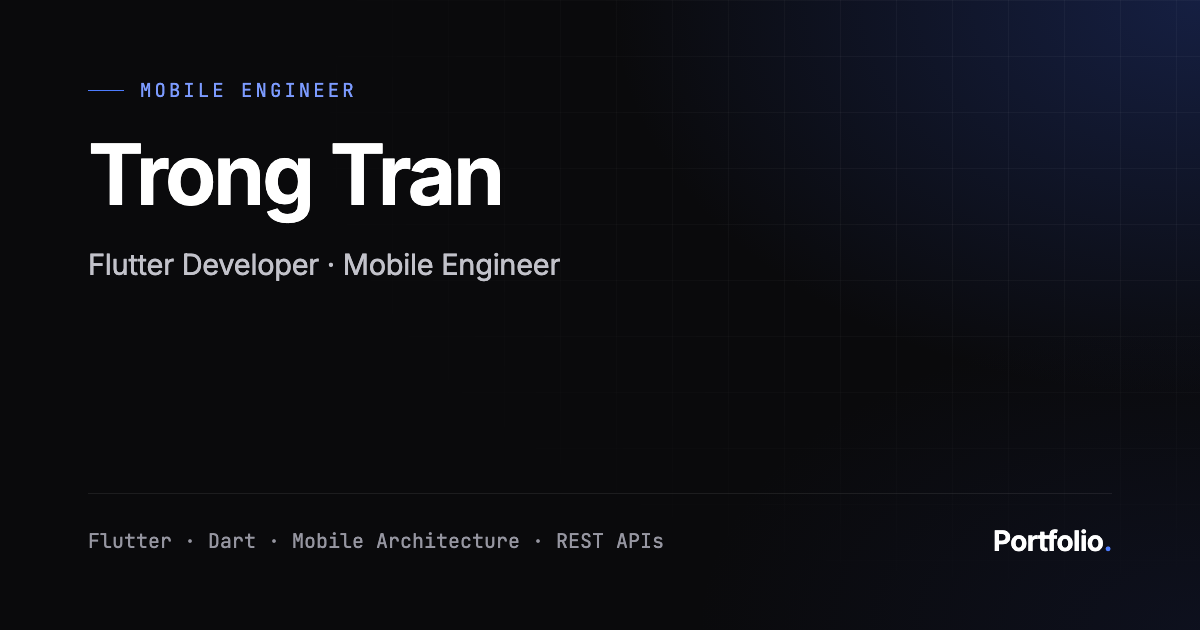
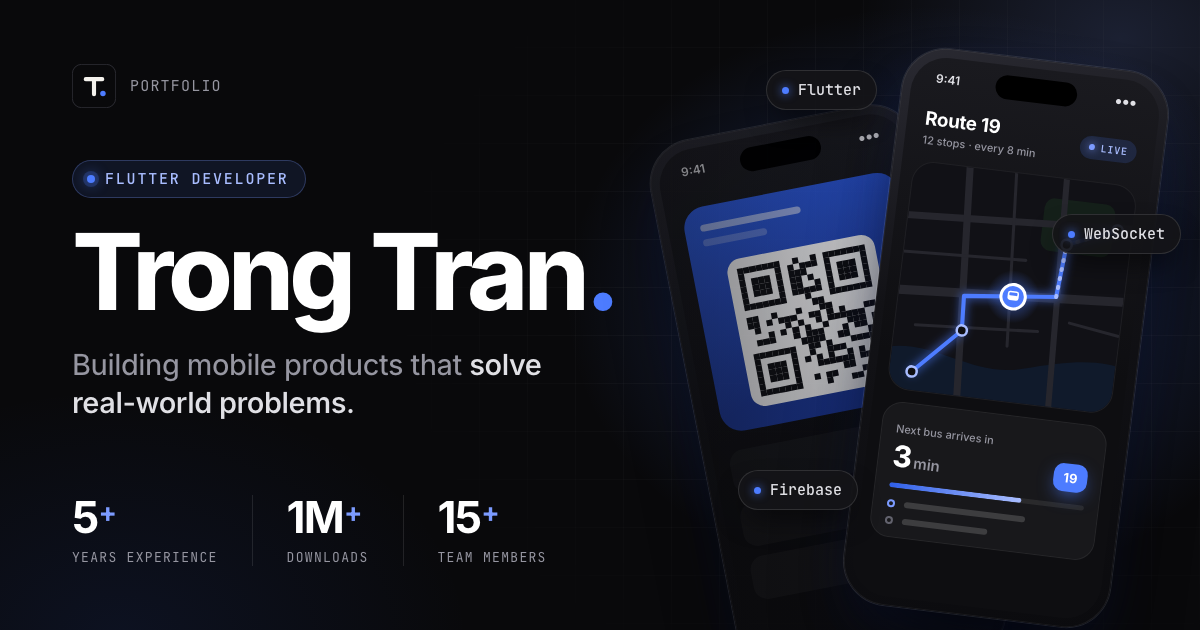
Redesign Open Graph image and add render script
New layout adds phone mockups, key stats and site branding. The image
is now built from scripts/og-image.html via `npm run og:image`.

diff --git a/scripts/og-image.html b/scripts/og-image.html
@@ -1,0 +1,274 @@
+<!doctype html>
+<!--
+  Source for public/og-image.png (1200×630). Render with:
+    npm run og:image
+  Uses the site's fonts (from node_modules) and Tailwind palette.
+-->
+<html lang="en">
+<head>
+<meta charset="UTF-8" />
+<style>
+  @font-face {
+    font-family: 'Inter';
+    src: url('../node_modules/@fontsource-variable/inter/files/inter-latin-wght-normal.woff2') format('woff2');
+    font-weight: 100 900;
+  }
+  @font-face {
+    font-family: 'JetBrains Mono';
+    src: url('../node_modules/@fontsource-variable/jetbrains-mono/files/jetbrains-mono-latin-wght-normal.woff2') format('woff2');
+    font-weight: 100 800;
+  }
+
+  :root {
+    --ink-950: #09090b; --ink-900: #0e0e11; --ink-850: #131317; --ink-800: #1a1a1f;
+    --ink-700: #26262d; --ink-600: #3a3a43; --ink-500: #62626d; --ink-400: #9696a1;
+    --ink-300: #c2c2ca; --ink-200: #e0e0e5; --paper: #f4f2ed;
+    --accent-300: #a9bdff; --accent-400: #7c9bff; --accent-500: #4d7cff; --accent-600: #2f5fe8;
+  }
+
+  * { box-sizing: border-box; margin: 0; padding: 0; }
+  html, body { width: 1200px; height: 630px; overflow: hidden; background: var(--ink-950); }
+  body { font-family: 'Inter', sans-serif; color: #fff; -webkit-font-smoothing: antialiased; }
+
+  .canvas { position: relative; width: 1200px; height: 630px; overflow: hidden; }
+
+  /* Background: glow + fading grid */
+  .glow {
+    position: absolute; inset: 0;
+    background:
+      radial-gradient(520px 420px at 930px 300px, rgb(77 124 255 / 0.30), transparent 70%),
+      radial-gradient(380px 300px at 1120px 40px, rgb(124 155 255 / 0.16), transparent 70%),
+      radial-gradient(500px 360px at 120px 640px, rgb(47 95 232 / 0.10), transparent 70%);
+  }
+  .grid {
+    position: absolute; inset: 0;
+    background-image:
+      linear-gradient(rgb(255 255 255 / 0.045) 1px, transparent 1px),
+      linear-gradient(90deg, rgb(255 255 255 / 0.045) 1px, transparent 1px);
+    background-size: 48px 48px;
+    background-position: -1px -1px;
+    -webkit-mask-image: radial-gradient(640px 520px at 900px 300px, #000 20%, transparent 80%);
+  }
+
+  /* Left column */
+  .left { position: absolute; left: 72px; top: 64px; bottom: 64px; width: 600px; display: flex; flex-direction: column; }
+  .brand { display: flex; align-items: center; gap: 14px; }
+  .brand svg { width: 44px; height: 44px; }
+  .brand span { font-family: 'JetBrains Mono', monospace; font-size: 15px; letter-spacing: 0.08em; color: var(--ink-400); }
+
+  .eyebrow {
+    margin-top: 52px; align-self: flex-start;
+    display: inline-flex; align-items: center; gap: 10px;
+    padding: 8px 16px 8px 14px; border-radius: 999px;
+    border: 1px solid rgb(124 155 255 / 0.28); background: rgb(77 124 255 / 0.10);
+    font-family: 'JetBrains Mono', monospace; font-size: 15px; font-weight: 500;
+    letter-spacing: 0.12em; text-transform: uppercase; color: var(--accent-300);
+  }
+  .eyebrow i { width: 8px; height: 8px; border-radius: 50%; background: var(--accent-500); box-shadow: 0 0 0 4px rgb(77 124 255 / 0.22), 0 0 14px var(--accent-500); }
+
+  h1 { margin-top: 22px; font-size: 106px; font-weight: 750; line-height: 0.98; letter-spacing: -0.05em; color: #fff; }
+  h1 em { font-style: normal; color: var(--accent-500); }
+
+  .tagline { margin-top: 22px; font-size: 29px; line-height: 1.3; font-weight: 450; letter-spacing: -0.015em; color: var(--ink-400); max-width: 560px; }
+  .tagline b { font-weight: 550; color: var(--ink-200); }
+
+  .stats { margin-top: auto; display: flex; gap: 0; }
+  .stat { padding-right: 34px; margin-right: 34px; border-right: 1px solid rgb(255 255 255 / 0.10); }
+  .stat:last-child { border-right: 0; margin-right: 0; padding-right: 0; }
+  .stat strong { display: block; font-size: 44px; font-weight: 700; letter-spacing: -0.04em; line-height: 1; color: #fff; }
+  .stat strong sup { font-size: 0.62em; vertical-align: 0.42em; margin-left: 1px; color: var(--accent-400); }
+  .stat span { display: block; margin-top: 10px; font-family: 'JetBrains Mono', monospace; font-size: 13px; letter-spacing: 0.1em; text-transform: uppercase; color: var(--ink-400); }
+
+  /* Phones */
+  .phone {
+    position: absolute; width: 268px; height: 560px; padding: 9px;
+    border-radius: 44px; background: linear-gradient(160deg, #2a2a32, #121216 40%, #0b0b0e);
+    box-shadow: 0 0 0 1px rgb(255 255 255 / 0.10), inset 0 0 0 1px rgb(255 255 255 / 0.06), 0 50px 90px -30px rgb(0 0 0 / 0.95), 0 30px 60px -20px rgb(20 40 120 / 0.45);
+  }
+  .screen { position: relative; height: 100%; border-radius: 36px; overflow: hidden; background: linear-gradient(180deg, var(--ink-800), var(--ink-900) 55%); }
+  .island { position: absolute; top: 10px; left: 50%; width: 82px; height: 24px; margin-left: -41px; border-radius: 999px; background: #000; z-index: 3; }
+  .status { display: flex; justify-content: space-between; padding: 14px 24px 0; font-size: 12px; font-weight: 600; color: var(--ink-200); }
+
+  .phone.back { left: 694px; top: 118px; transform: rotate(-11deg); opacity: 0.92; }
+  .phone.back::after { content: ''; position: absolute; inset: 0; border-radius: 44px; background: linear-gradient(90deg, rgb(9 9 11 / 0.45), rgb(9 9 11 / 0.08)); }
+  .phone.front { left: 872px; top: 58px; transform: rotate(7deg); }
+
+  /* Front phone: live bus tracking */
+  .app-head { padding: 22px 18px 0; display: flex; align-items: center; justify-content: space-between; }
+  .app-head h3 { font-size: 19px; font-weight: 700; letter-spacing: -0.02em; }
+  .app-head small { display: block; margin-top: 3px; font-size: 11px; color: var(--ink-400); font-weight: 500; }
+  .live { display: inline-flex; align-items: center; gap: 6px; padding: 5px 9px; border-radius: 999px; background: rgb(77 124 255 / 0.16); color: var(--accent-300); font-family: 'JetBrains Mono', monospace; font-size: 10px; font-weight: 600; letter-spacing: 0.08em; }
+  .live i { width: 6px; height: 6px; border-radius: 50%; background: var(--accent-400); box-shadow: 0 0 8px var(--accent-400); }
+
+  .map { margin: 14px 12px 0; height: 230px; border-radius: 22px; overflow: hidden; position: relative; background: #111116; border: 1px solid rgb(255 255 255 / 0.06); }
+  .map svg { position: absolute; inset: 0; }
+
+  .sheet { margin: 12px 12px 0; padding: 14px 14px 12px; border-radius: 20px; background: rgb(255 255 255 / 0.045); border: 1px solid rgb(255 255 255 / 0.06); }
+  .sheet .row { display: flex; align-items: flex-end; justify-content: space-between; }
+  .sheet label { font-size: 11px; color: var(--ink-400); font-weight: 500; }
+  .sheet .eta { font-size: 30px; font-weight: 750; letter-spacing: -0.04em; line-height: 1; margin-top: 4px; }
+  .sheet .eta span { font-size: 15px; font-weight: 600; color: var(--ink-400); margin-left: 3px; letter-spacing: 0; }
+  .bus-pill { padding: 6px 10px; border-radius: 10px; background: var(--accent-500); font-size: 13px; font-weight: 700; box-shadow: 0 6px 18px -4px rgb(77 124 255 / 0.7); }
+  .progress { margin-top: 12px; height: 5px; border-radius: 999px; background: rgb(255 255 255 / 0.08); overflow: hidden; }
+  .progress i { display: block; width: 68%; height: 100%; border-radius: inherit; background: linear-gradient(90deg, var(--accent-600), var(--accent-300)); }
+  .stops { margin-top: 12px; display: grid; gap: 9px; }
+  .stops div { display: flex; align-items: center; gap: 9px; }
+  .stops b { width: 8px; height: 8px; border-radius: 50%; border: 2px solid var(--accent-400); }
+  .stops div:nth-child(2) b { border-color: var(--ink-500); }
+  .stops s { height: 6px; border-radius: 999px; background: rgb(255 255 255 / 0.16); text-decoration: none; }
+
+  /* Back phone: e-ticket */
+  .ticket { margin: 30px 16px 0; border-radius: 22px; padding: 18px 16px 16px; background: linear-gradient(160deg, var(--accent-600), #1d3a9e 70%); position: relative; }
+  .ticket .bar { height: 7px; border-radius: 999px; background: rgb(255 255 255 / 0.55); }
+  .ticket .bar.dim { background: rgb(255 255 255 / 0.25); }
+  .qr { margin: 18px auto 4px; width: 150px; height: 150px; padding: 10px; border-radius: 14px; background: #fff; display: grid; grid-template-columns: repeat(21, 1fr); }
+  .qr i { display: block; }
+  .qr i.on { background: #0e0e11; }
+  .rows { margin: 18px 16px 0; display: grid; gap: 10px; }
+  .rows div { height: 44px; border-radius: 14px; background: rgb(255 255 255 / 0.04); }
+
+  /* Floating service chips */
+  .chip {
+    position: absolute; z-index: 5; display: inline-flex; align-items: center; gap: 9px;
+    padding: 9px 15px; border-radius: 999px; border: 1px solid rgb(255 255 255 / 0.12);
+    background: rgb(19 19 23 / 0.92); box-shadow: 0 14px 30px -10px rgb(0 0 0 / 0.8);
+    font-family: 'JetBrains Mono', monospace; font-size: 15px; font-weight: 500; color: var(--ink-200);
+  }
+  .chip i { width: 7px; height: 7px; border-radius: 50%; background: var(--accent-500); box-shadow: 0 0 10px var(--accent-500); }
+</style>
+</head>
+<body>
+<div class="canvas">
+  <div class="glow"></div>
+  <div class="grid"></div>
+
+  <!-- Left: identity -->
+  <div class="left">
+    <div class="brand">
+      <svg viewBox="0 0 64 64" aria-hidden="true">
+        <rect width="64" height="64" rx="14" fill="#09090b"/>
+        <rect x="0.5" y="0.5" width="63" height="63" rx="13.5" fill="none" stroke="#3a3a43"/>
+        <path d="M20 22h24M32 22v22" stroke="#f4f2ed" stroke-width="6" stroke-linecap="round"/>
+        <circle cx="45" cy="43" r="4" fill="#4d7cff"/>
+      </svg>
+      <span>PORTFOLIO</span>
+    </div>
+
+    <div class="eyebrow"><i></i>Flutter Developer</div>
+    <h1>Trong Tran<em>.</em></h1>
+    <p class="tagline">Building mobile products that <b>solve real&#8209;world problems.</b></p>
+
+    <div class="stats">
+      <div class="stat"><strong>5<sup>+</sup></strong><span>Years experience</span></div>
+      <div class="stat"><strong>1M<sup>+</sup></strong><span>Downloads</span></div>
+      <div class="stat"><strong>15<sup>+</sup></strong><span>Team members</span></div>
+    </div>
+  </div>
+
+  <!-- Back phone: e-ticket -->
+  <div class="phone back">
+    <div class="screen">
+      <div class="island"></div>
+      <div class="status"><span>9:41</span><span>●●●</span></div>
+      <div class="ticket">
+        <div class="bar" style="width: 55%"></div>
+        <div class="bar dim" style="width: 35%; margin-top: 8px"></div>
+        <div class="qr" id="qr"></div>
+      </div>
+      <div class="rows"><div></div><div></div><div></div></div>
+    </div>
+  </div>
+
+  <!-- Front phone: live tracking -->
+  <div class="phone front">
+    <div class="screen">
+      <div class="island"></div>
+      <div class="status"><span>9:41</span><span>●●●</span></div>
+      <div class="app-head">
+        <div><h3>Route 19</h3><small>12 stops · every 8 min</small></div>
+        <span class="live"><i></i>LIVE</span>
+      </div>
+
+      <div class="map">
+        <svg viewBox="0 0 220 230" fill="none">
+          <defs>
+            <filter id="glow" x="-50%" y="-50%" width="200%" height="200%"><feGaussianBlur stdDeviation="4" /></filter>
+            <radialGradient id="pulse"><stop offset="0" stop-color="#4d7cff" stop-opacity="0.55"/><stop offset="1" stop-color="#4d7cff" stop-opacity="0"/></radialGradient>
+          </defs>
+          <!-- park + water -->
+          <rect x="132" y="20" width="70" height="52" rx="10" fill="#15201a"/>
+          <path d="M-10 186 C 40 170, 80 205, 130 190 S 210 170, 240 182 L 240 240 L -10 240 Z" fill="#101a2b"/>
+          <!-- streets -->
+          <g stroke="#26262d" stroke-linecap="round">
+            <path d="M-10 54 L 240 40" stroke-width="7"/>
+            <path d="M-10 128 L 240 112" stroke-width="9"/>
+            <path d="M54 -10 L 70 240" stroke-width="7"/>
+            <path d="M150 -10 L 160 240" stroke-width="6"/>
+            <path d="M-10 90 L 120 84" stroke-width="3"/>
+            <path d="M100 -10 L 112 170" stroke-width="3"/>
+            <path d="M170 140 L 240 150" stroke-width="3"/>
+            <path d="M20 160 L 140 152" stroke-width="3"/>
+          </g>
+          <!-- route -->
+          <path d="M22 206 L 66 160 L 64 126 L 154 116 L 158 64 L 206 44" stroke="#4d7cff" stroke-width="8" stroke-linecap="round" stroke-linejoin="round" opacity="0.5" filter="url(#glow)"/>
+          <path d="M22 206 L 66 160 L 64 126 L 154 116 L 158 64 L 206 44" stroke="#4d7cff" stroke-width="4" stroke-linecap="round" stroke-linejoin="round"/>
+          <path d="M154 116 L 158 64 L 206 44" stroke="#a9bdff" stroke-width="4" stroke-linecap="round" stroke-linejoin="round" stroke-dasharray="1 8"/>
+          <g fill="#0e0e11" stroke="#a9bdff" stroke-width="2.5">
+            <circle cx="22" cy="206" r="5"/><circle cx="66" cy="160" r="5"/><circle cx="158" cy="64" r="5"/><circle cx="206" cy="44" r="5"/>
+          </g>
+          <!-- bus -->
+          <circle cx="112" cy="121" r="26" fill="url(#pulse)"/>
+          <circle cx="112" cy="121" r="12" fill="#4d7cff" stroke="#fff" stroke-width="3"/>
+          <rect x="106.5" y="115.5" width="11" height="9" rx="2.5" fill="#fff"/>
+          <rect x="108" y="117" width="8" height="3" rx="1" fill="#4d7cff"/>
+        </svg>
+      </div>
+
+      <div class="sheet">
+        <div class="row">
+          <div><label>Next bus arrives in</label><div class="eta">3<span>min</span></div></div>
+          <div class="bus-pill">19</div>
+        </div>
+        <div class="progress"><i></i></div>
+        <div class="stops">
+          <div><b></b><s style="width: 62%"></s></div>
+          <div><b></b><s style="width: 44%"></s></div>
+        </div>
+      </div>
+    </div>
+  </div>
+
+  <!-- Service chips -->
+  <div class="chip" style="left: 766px; top: 70px"><i></i>Flutter</div>
+  <div class="chip" style="left: 1052px; top: 214px"><i></i>WebSocket</div>
+  <div class="chip" style="left: 738px; top: 470px"><i></i>Firebase</div>
+</div>
+
+<script>
+  // Deterministic QR-like pattern with the three finder squares.
+  const N = 21, qr = document.getElementById('qr');
+  let seed = 7;
+  const rand = () => (seed = (seed * 16807) % 2147483647) / 2147483647;
+  const finder = (r, c) => {
+    for (const [fr, fc] of [[0, 0], [0, N - 7], [N - 7, 0]]) {
+      const y = r - fr, x = c - fc;
+      if (y >= 0 && y < 7 && x >= 0 && x < 7) {
+        const ring = Math.min(y, x, 6 - y, 6 - x);
+        return ring !== 1;
+      }
+      if (y >= -1 && y <= 7 && x >= -1 && x <= 7) return false;
+    }
+    return null;
+  };
+  for (let r = 0; r < N; r++) {
+    for (let c = 0; c < N; c++) {
+      const f = finder(r, c);
+      const on = f === null ? rand() > 0.52 : f;
+      const cell = document.createElement('i');
+      if (on) cell.className = 'on';
+      qr.appendChild(cell);
+    }
+  }
+</script>
+</body>
+</html>
